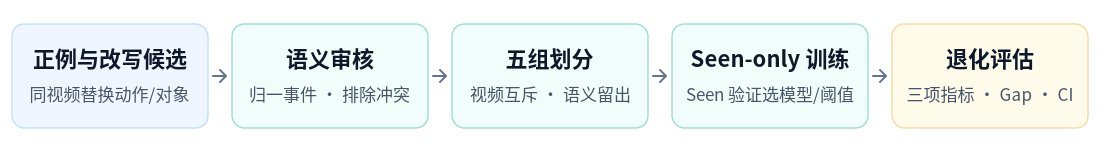
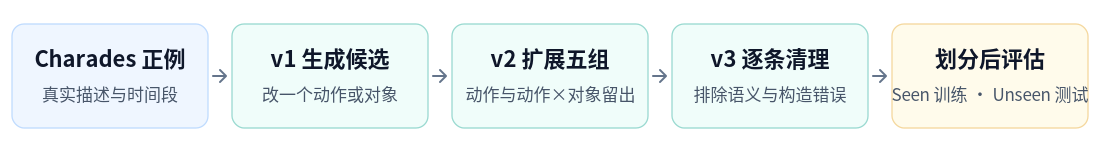
Connect the concise v3 pipeline explanation to v1 construction on main

diff --git a/assets/semantic_existence_v3/render_pipelines.py b/assets/semantic_existence_v3/render_pipelines.py
@@ -38,8 +38,8 @@ def draw(path,title,steps):
 def main():
     parser=argparse.ArgumentParser(description=__doc__);parser.add_argument('--png',action='store_true');args=parser.parse_args()
     root=Path(__file__).resolve().parent
-    draw(root/'clean_release_pipeline.svg','未补充版 v3 管线',[
-        ('正例与改写候选','同视频替换动作/对象'),('语义审核','归一事件 · 排除冲突'),('五组划分','视频互斥 · 语义留出'),('Seen-only 训练','Seen 验证选模型/阈值'),('退化评估','三项指标 · Gap · CI')])
+    draw(root/'clean_release_pipeline.svg','从 v1 到未补充版 v3 的数据管线',[
+        ('Charades 正例','真实描述与时间段'),('v1 生成候选','改一个动作或对象'),('v2 扩展五组','动作与动作×对象留出'),('v3 逐条清理','排除语义与构造错误'),('划分后评估','Seen 训练 · Unseen 测试')])
     draw(root/'balanced_pipeline.svg','Balanced v3 管线',[
         ('原始 v3','保留全部原始样本'),('跨视频配对','原查询 + 另一视频'),('CLIP 文本排名','保留最低一半视频'),('语义过滤','去重 · 排除标注冲突'),('补齐与校验','追加伪负例至正负 1:1')])
     if args.png:

diff --git a/README.md b/README.md
@@ -30,32 +30,25 @@
 
 ## 2. 数据怎样制作？
 
-### 未补充版：同一视频，改写查询作为负例候选
+### 未补充版：v1 造候选，v2 扩展，v3 清理
 
-[![未补充版 v3 简要管线](assets/semantic_existence_v3/clean_release_pipeline.svg)](assets/semantic_existence_v3/clean_release_pipeline.svg)
+[![v1 到 v3 的数据制作管线](assets/semantic_existence_v3/clean_release_pipeline.svg)](assets/semantic_existence_v3/clean_release_pipeline.svg)
 
-1. **取正例：** 使用 Charades-STA 已标注的事件描述和时间段，例如“一个人走上楼梯”。
-2. **筛负例：** 将旧版改写候选（例如“跑上楼梯”）与同一视频的已有描述比对，剔除同义、事件重合和难以判断的候选；保留者标为缺席，不给时间段。
-3. **划分数据：** 训练、验证、测试使用不同视频，再从训练中移除指定事件。例如 A2 不用“饮用/倾倒”事件训练，留在测试中检查模型能否泛化。
+1. **v1：从真实事件造负例候选。** 正例来自 Charades-STA 的描述和时间段。解析句子的动作、对象，只改其中一项，视频不变，例如把“打开柜门”改为“关闭柜门”。重新解析，并用同视频其他描述、Charades 动作标注和 Action Genome 关系排除有事件发生证据的候选。
+2. **v2：扩展到五组。** 沿用上述办法，构建动作留出和动作×对象组合留出的五组数据。
+3. **v3：逐条清理旧候选。** 检查整句表达的事件，剔除同义、蕴含、重合、歧义和构造错误，保留 **15,034 条正例、2,869 条负例**。训练/验证/测试的视频互斥，指定留出事件不进入训练。
 
-最终保留 **15,034 条正例、2,869 条负例**，不再追加新负例。
+### 补充版：在 v3 上“保留原句，换视频”
 
-### 补充版：不改查询，换一个视频增加负例
+[![Balanced v3 补负例管线](assets/semantic_existence_v3/balanced_pipeline.svg)](assets/semantic_existence_v3/balanced_pipeline.svg)
 
-[![Balanced v3 简要管线](assets/semantic_existence_v3/balanced_pipeline.svg)](assets/semantic_existence_v3/balanced_pipeline.svg)
+从同组、同一训练/验证/测试划分借一句正例描述，配给另一视频。CLIP 比较这句话与各候选视频已有的描述，取每个视频的最高相似度，再保留排名最低的一半视频；排除重复和语义冲突后，将合格配对标为缺席、不给时间段，追加到原始样本后，直到完整划分正负 **1:1**。
 
-例如，把视频 A 的“用杯子喝东西”这句话配给另一个视频 B，生成一条新的缺席样本：
+例如 Test 原有 **3,453 正＋1,158 负**，追加 **2,295 条伪负例**，得到正负各 **3,453**。
 
-1. **选视频：** 只在同组、同一训练/验证/测试划分中找 B。
-2. **排相似度：** CLIP 比较这句话和 B 的已有描述，取最高相似度；候选视频从低到高排序，只保留前一半。
-3. **排除冲突：** B 已标注相同/重合事件，或配对重复，就跳过。
-4. **追加负例：** 合格配对标为缺席、不给时间段，直到负例数等于正例数；原始样本全部保留。
+**审核边界：** v1 记录的是数据所有者的批次级视频复核确认，没有逐条复核日志；v3 本轮清理和 balanced 新增负例没有重新逐视频核验，文本筛选不能证明事件缺席。
 
-每组 Test：**3,453 正＋1,158 负 → 新增 2,295 负 → 正负各 3,453**。1:1 指完整划分，Seen/Unseen 不保证分别平衡。
-
-**两版负例均未逐视频核验；文本审核和低相似度不能证明事件缺席。补充版新增标签明确记为“伪负例”。**
-
-[原版审核细节](docs/reports/SEMANTIC_EXISTENCE_V3_AUDIT_DETAILS.md) · [补充版完整规则与真实样本](docs/reports/SEMANTIC_EXISTENCE_V3_BALANCED_PIPELINE.md)
+[v1 在 main 的原始说明](https://github.com/chinagalaxy2002/GMR_Unseen/blob/2762322406232361816b76e67d7a957bade6dfa8/README.md#how-the-v1-dataset-was-constructed) · [v1 构建代码](https://github.com/chinagalaxy2002/GMR_Unseen/blob/2762322406232361816b76e67d7a957bade6dfa8/scripts/build_semantic_existence.py) · [v3 审核细节](docs/reports/SEMANTIC_EXISTENCE_V3_AUDIT_DETAILS.md) · [补充版完整规则](docs/reports/SEMANTIC_EXISTENCE_V3_BALANCED_PIPELINE.md)
 
 ## 3. 五组怎么划分，有多大？
 

diff --git a/data/release/semantic_existence_v3_release/README.md b/data/release/semantic_existence_v3_release/README.md
@@ -19,17 +19,19 @@
 
 ## 2. 数据怎样制作？
 
-[![未补充版 v3 简要管线](../../../assets/semantic_existence_v3/clean_release_pipeline.svg)](../../../assets/semantic_existence_v3/clean_release_pipeline.svg)
+### 未补充版：v1 造候选，v2 扩展，v3 清理
 
-1. **取正例：** 使用 Charades-STA 已标注的事件描述和时间段，例如“一个人走上楼梯”。
-2. **筛负例：** 将旧版改写候选（例如“跑上楼梯”）与同一视频的已有描述比对，剔除同义、事件重合和难以判断的候选；保留者标为缺席，不给时间段。
-3. **划分数据：** 训练、验证、测试使用不同视频，再从训练中移除指定事件。例如 A2 不用“饮用/倾倒”事件训练，留在测试中检查模型能否泛化。
+[![v1 到 v3 的数据制作管线](../../../assets/semantic_existence_v3/clean_release_pipeline.svg)](../../../assets/semantic_existence_v3/clean_release_pipeline.svg)
 
-最终保留 **15,034 条正例、2,869 条负例**，不再追加新负例。
+1. **v1：从真实事件造负例候选。** 正例来自 Charades-STA 的描述和时间段。解析句子的动作、对象，只改其中一项，视频不变，例如把“打开柜门”改为“关闭柜门”。重新解析，并用同视频其他描述、Charades 动作标注和 Action Genome 关系排除有事件发生证据的候选。
+2. **v2：扩展到五组。** 沿用上述办法，构建动作留出和动作×对象组合留出的五组数据。
+3. **v3：逐条清理旧候选。** 检查整句表达的事件，剔除同义、蕴含、重合、歧义和构造错误，保留 **15,034 条正例、2,869 条负例**。训练/验证/测试的视频互斥，指定留出事件不进入训练。
 
-**负例依据：** 上述负例通过文本语义审核保留，没有逐条看视频确认缺席；审核后的标签仍可能有噪声。
+**审核边界：** v1 记录的是数据所有者的批次级视频复核确认，没有逐条复核日志；v3 本轮清理和 balanced 新增负例没有重新逐视频核验，文本筛选不能证明事件缺席。
 
-补充版另外保留原查询、换视频新增伪负例。两者区别见[首页说明](../../../README.md#2-数据怎样制作)；完整审核记录见[原版审核细节](../../../docs/reports/SEMANTIC_EXISTENCE_V3_AUDIT_DETAILS.md)。
+[v1 在 main 的原始说明](https://github.com/chinagalaxy2002/GMR_Unseen/blob/2762322406232361816b76e67d7a957bade6dfa8/README.md#how-the-v1-dataset-was-constructed) · [v1 构建代码](https://github.com/chinagalaxy2002/GMR_Unseen/blob/2762322406232361816b76e67d7a957bade6dfa8/scripts/build_semantic_existence.py) · [v3 审核细节](../../../docs/reports/SEMANTIC_EXISTENCE_V3_AUDIT_DETAILS.md) · [补充版完整规则](../../../docs/reports/SEMANTIC_EXISTENCE_V3_BALANCED_PIPELINE.md)
+
+补充版在上述 v3 上另行“保留原句、换视频”增加伪负例，详见[首页](../../../README.md#2-数据怎样制作)。
 
 ## 3. 五组怎么划分，有多大？
 

diff --git a/docs/reports/SEMANTIC_EXISTENCE_V3_AUDIT_DETAILS.md b/docs/reports/SEMANTIC_EXISTENCE_V3_AUDIT_DETAILS.md
@@ -1,5 +1,7 @@
 # 未补充版 v3：语义审核与划分细节
 
+初始负例生成步骤已核对 [main 的 v1 说明](https://github.com/chinagalaxy2002/GMR_Unseen/blob/2762322406232361816b76e67d7a957bade6dfa8/README.md#how-the-v1-dataset-was-constructed)及[实际构建器](https://github.com/chinagalaxy2002/GMR_Unseen/blob/2762322406232361816b76e67d7a957bade6dfa8/scripts/build_semantic_existence.py)。v1 只改变一个动作或对象事件项，并结合重新解析、同视频查询、Charades 动作和 Action Genome 关系筛冲突；其视频复核证据是所有者批次级确认，没有逐 qid 日志。v3 本轮是旧候选的文本语义复审，没有新增逐视频复核。
+
 以下记录保留原管线的实现细节；简明介绍见[首页](../../README.md#2-数据怎样制作)。
 
 1. **整理来源。** 正例来自 Charades-STA 原始标注，保留查询、视频和 GT 时间窗；负查询来自 v2 五划分的旧反事实候选，按 qid 去重审核。负例使用 `relevant_windows=[]`，其源事件时间窗只作追溯，不是负例的定位 GT。
